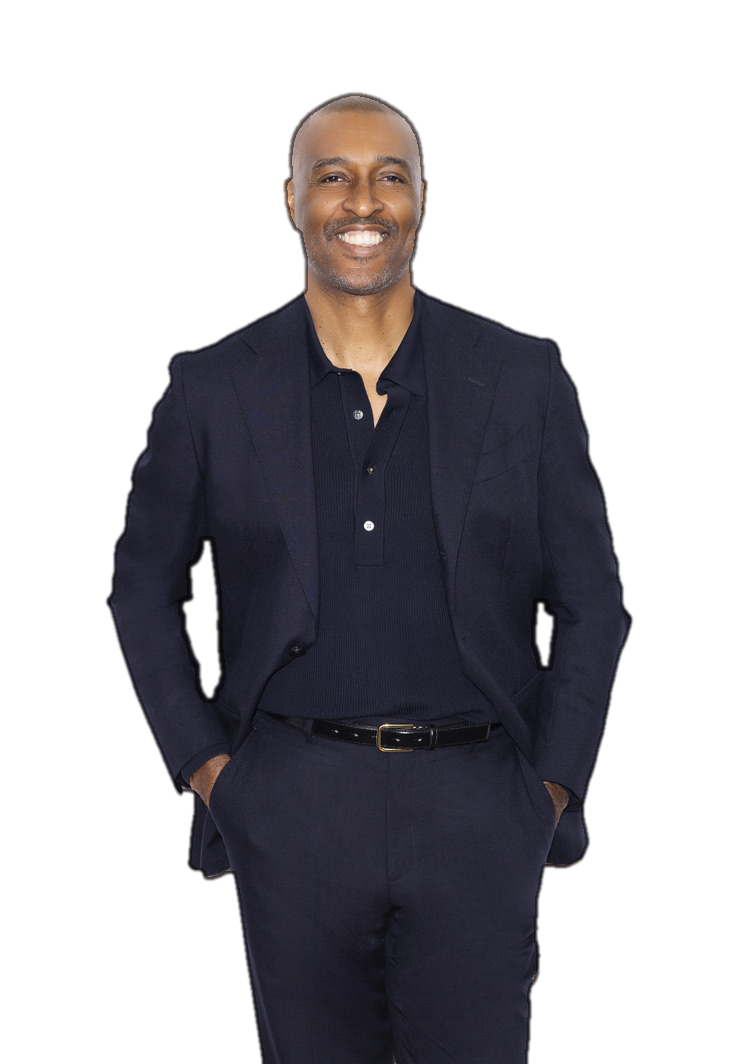
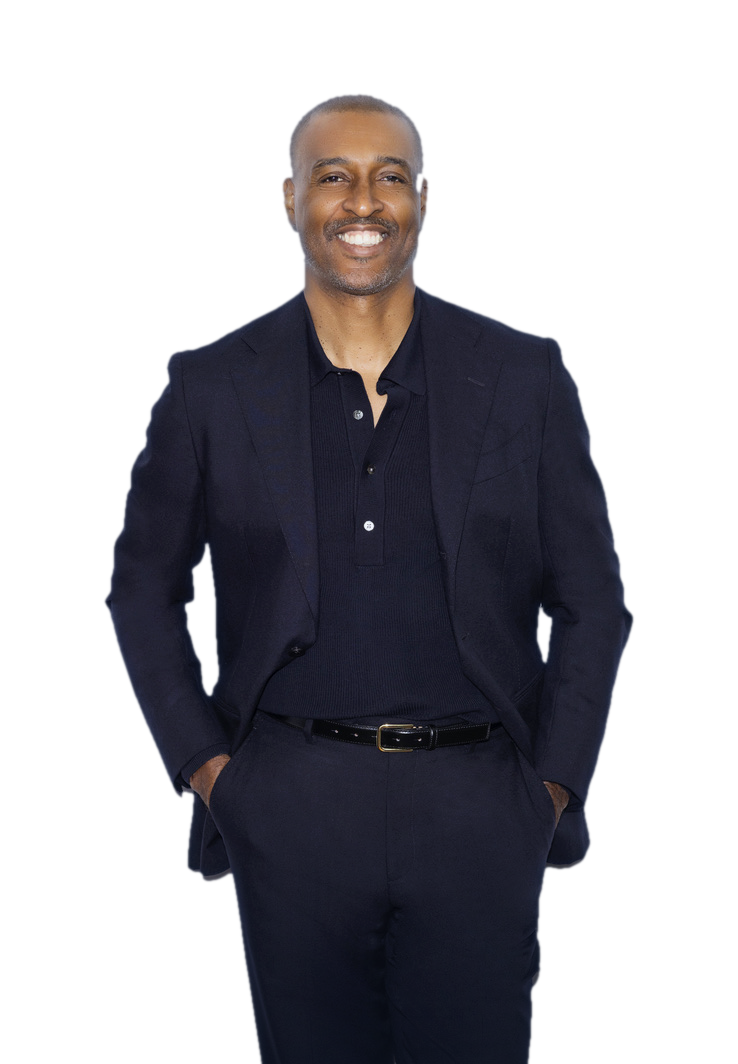
About hero: smoother portrait edge and lighting matched to the dark background
- Cutout rebuilt from the original: smoothed edge, gray ring and arm-gap backdrop removed
- Edge colors tinted toward the navy scene, photo graded slightly darker and cooler
- Soft light behind the figure; legs fade into the dark

Claude-Session: https://claude.ai/code/session_016d1kFuDzTFQuBxQRJByuRx

diff --git a/src/styles/global.css b/src/styles/global.css
@@ -2815,3 +2815,17 @@ html.js .stage-portrait { opacity: 0; transform: translateY(36px) scale(0.985); 
   .hero-bubble { right: -6%; top: -8%; }
 }
 @media (max-width: 640px) { .hero-bubble { right: -4%; top: -10%; left: auto; bottom: auto; font-size: 0.95rem; } }
+
+/* About hero: seat the portrait in the scene (soft light behind, legs fade into the dark). */
+.stage-portrait { position: relative; }
+.stage-portrait::before {
+  content: ''; position: absolute; z-index: -1; pointer-events: none;
+  left: 8%; right: 8%; top: 4%; height: 62%;
+  background: radial-gradient(closest-side, rgba(120, 150, 210, 0.28), rgba(178, 142, 66, 0.10) 55%, transparent 100%);
+  filter: blur(30px);
+}
+.stage-portrait img {
+  filter: drop-shadow(0 0 18px rgba(7, 15, 28, 0.55)) drop-shadow(0 24px 40px rgba(0, 0, 0, 0.45));
+  -webkit-mask-image: linear-gradient(to bottom, #000 74%, transparent 100%);
+  mask-image: linear-gradient(to bottom, #000 74%, transparent 100%);
+}
